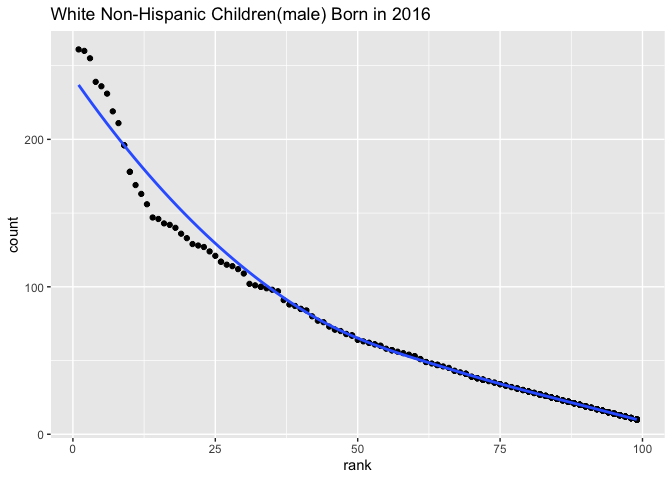
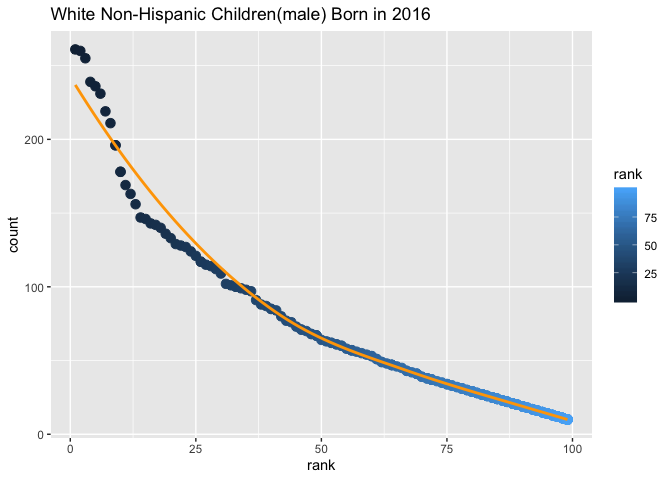
Changes of plot

diff --git a/p8105_hw2_wx2233.md b/p8105_hw2_wx2233.md
@@ -454,10 +454,10 @@ male_name_2016_wnh
 
 ``` r
 male_name_2016_wnh %>% 
-  ggplot(aes(x = rank, y = count)) +
-  geom_point() +
+  ggplot(aes(x = rank, y = count,color = rank)) +
+  geom_point( size = 3) +
   # geom_text(aes(label=childs_first_name)) +
-  geom_smooth(se = FALSE) +
+  geom_smooth(se = FALSE, color = "orange") +
   labs(
     title = "White Non-Hispanic Children(male) Born in 2016",
     x = "rank",
